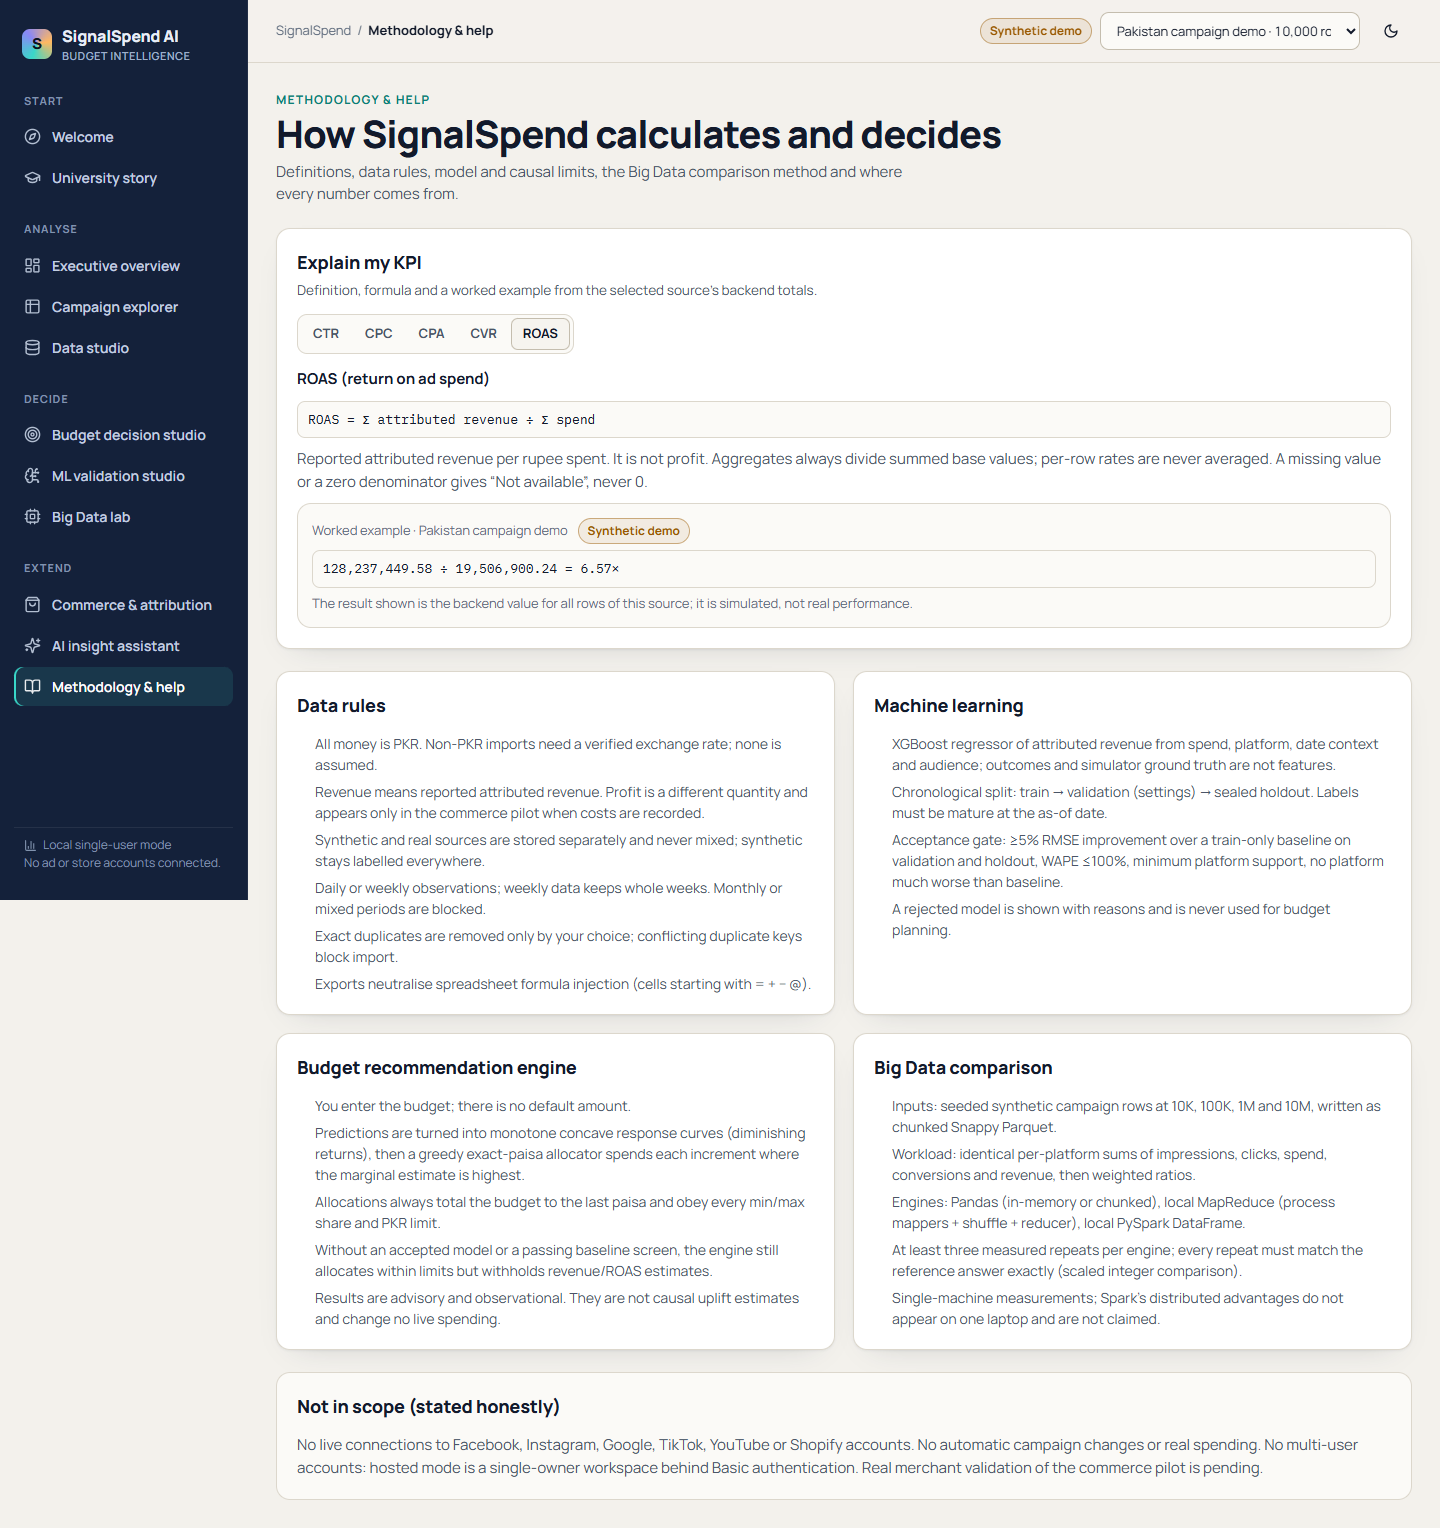
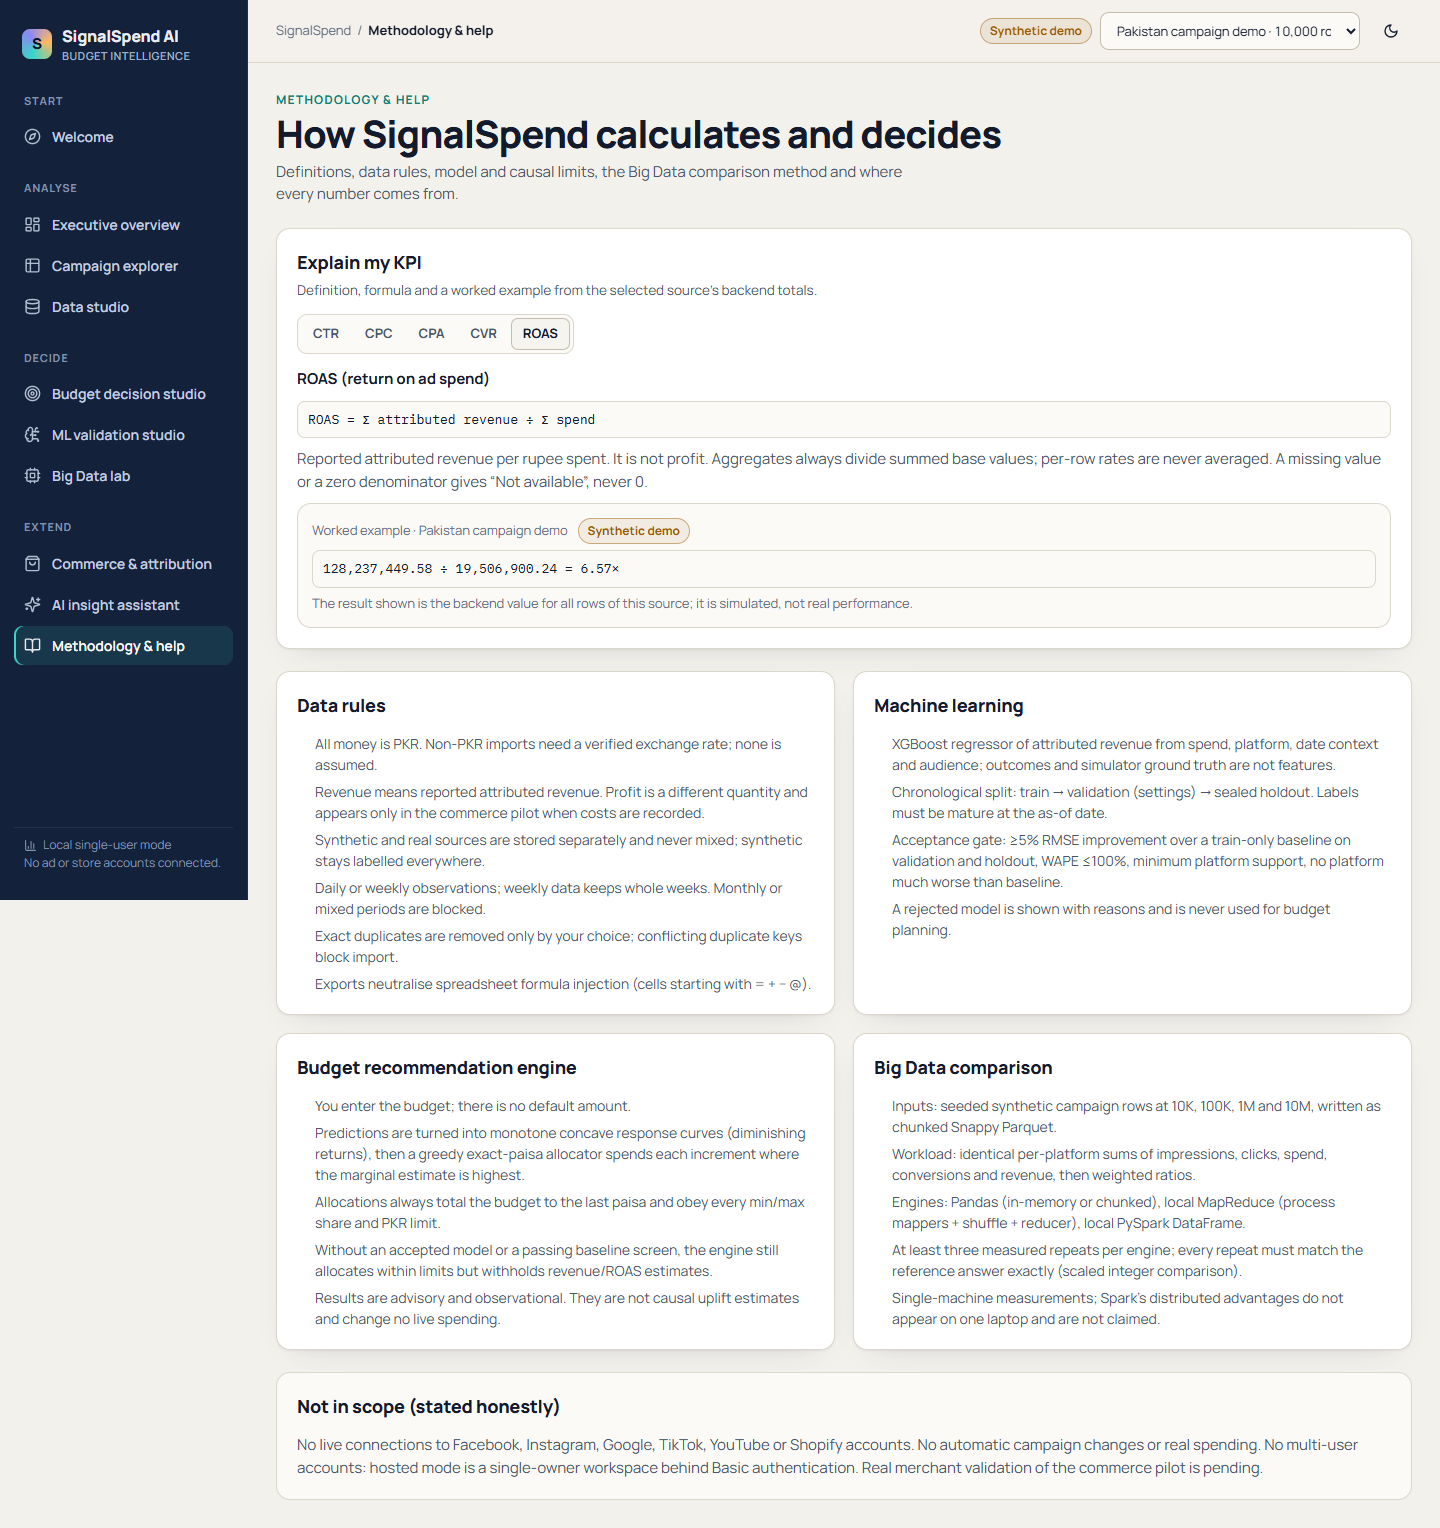
Add test results card and screenshot gallery to README
Card is generated from recorded results (pytest summary, browser journeys,
page QA, Big Data evidence) by scripts/test-results-card.mjs. Removed stale
University story screenshots; refreshed light-theme QA and live AI screenshot.

Changed region(s): [[0.0, 0.0923, 0.1562, 0.4614]]

diff --git a/docs/test-results.html b/docs/test-results.html
@@ -1,0 +1,28 @@
+<!doctype html><html><head><meta charset="utf-8"><style>
+*{box-sizing:border-box}body{margin:0;background:#0b1220;color:#f6f8fc;font:15px/1.45 "Segoe UI",system-ui,sans-serif;padding:32px;width:1200px}
+h1{margin:0 0 4px;font-size:30px;letter-spacing:-.02em}.sub{color:#a7b7ce;margin:0 0 22px}
+.grid{display:grid;grid-template-columns:1fr 1fr;gap:18px}.card{background:#18273e;border:1px solid #2a3a52;border-radius:14px;padding:18px}
+h2{font-size:16px;margin:0 0 12px;color:#39d7c8;text-transform:uppercase;letter-spacing:.08em}
+table{width:100%;border-collapse:collapse;font-variant-numeric:tabular-nums}td,th{padding:7px 8px;border-bottom:1px solid #2a3a52;text-align:left}th{color:#a7b7ce;font-size:12.5px}
+td.r,th.r{text-align:right}.b{display:inline-block;white-space:nowrap;padding:2px 9px;border-radius:99px;font-weight:700;font-size:12.5px}.ok{background:rgba(95,211,154,.14);color:#5fd39a;border:1px solid rgba(95,211,154,.4)}.no{background:rgba(243,125,131,.14);color:#f37d83;border:1px solid rgba(243,125,131,.4)}
+.big{font-size:34px;font-weight:800}.muted{color:#a7b7ce;font-size:13px}.wide{grid-column:1/-1}code{font-family:Consolas,monospace;font-size:12.5px;color:#a7b7ce}
+</style></head><body>
+<h1>SignalSpend AI · Test results</h1>
+<p class="sub">Generated from recorded result files · 2026-11-02 16:23 UTC · live = https://signalspend-ai.vercel.app (no login)</p>
+<div class="grid">
+<div class="card"><h2>Backend (pytest)</h2><div class="big">201 passed</div>
+<p class="muted">9 failed, 201 passed, 1 skipped, 1 warning in 142.42s (0:02:22)</p><p class="muted">Remaining failures are Windows/POSIX-environment specific (file modes, SIGKILL, SQLite temp locks, symlink privilege):</p>
+<code>test_ai.py::test_private_key_lifecycle_and_truthful_status<br>test_benchmarks.py::test_cleanup_kills_orphan_group_after_runner_exits<br>test_commerce.py::test_shopify_order_grain_privacy_and_repeated_totals<br>test_serverless.py::test_cold_invocations_restore_campaigns_and_export<br>test_serverless.py::test_storage_failure_never_returns_success_or_publishes_partial_state<br>test_serverless.py::test_failed_action_does_not_change_saved_workspace<br>test_serverless.py::test_hosted_lab_cannot_start_detached_worker<br>test_serverless.py::test_workspace_size_limit_and_symlinks<br>test_serverless.py::test_hosted_training_finishes_before_response_and_survives_restore</code></div>
+<div class="card"><h2>Browser journeys</h2><table><tr><th>Where</th><th>Suite</th><th class="r">Result</th></tr>
+<tr><td>Local</td><td>Core journeys (Rs 1M plan, limits, model, explorer)</td><td class="r"><span class="b ok">✓ 10/10</span></td></tr><tr><td>Local</td><td>Commerce import + comparison</td><td class="r"><span class="b ok">✓ 8/8</span></td></tr><tr><td>Local</td><td>AI assistant (NVIDIA)</td><td class="r"><span class="b ok">✓ 8/8</span></td></tr><tr><td>Live</td><td>Core journeys (Rs 1M plan, limits, model, explorer)</td><td class="r"><span class="b ok">✓ 10/10</span></td></tr><tr><td>Live</td><td>Commerce import + comparison</td><td class="r"><span class="b ok">✓ 8/8</span></td></tr><tr><td>Live</td><td>AI assistant (NVIDIA)</td><td class="r"><span class="b ok">✓ 8/8</span></td></tr>
+</table></div>
+<div class="card"><h2>Pages × screen sizes</h2><table><tr><th>Run</th><th>Widths</th><th class="r">Clean (200, 0 errors, 0 overflow)</th></tr>
+<tr><td>Local · dark</td><td>320, 375, 430, 768, 1024, 1280, 1440 px</td><td class="r"><span class="b ok">✓ 70/70</span></td></tr><tr><td>Local · light</td><td>320, 375, 768, 1440 px</td><td class="r"><span class="b ok">✓ 40/40</span></td></tr><tr><td>Live · dark</td><td>375, 768, 1440 px</td><td class="r"><span class="b ok">✓ 30/30</span></td></tr>
+</table><p class="muted">10 routes: /  /overview  /campaigns  /data  /budget  /models  /lab  /commerce  /assistant  /methodology</p></div>
+<div class="card"><h2>Big Data lab · median of 3 repeats</h2><table><tr><th>Rows</th><th class="r">Pandas</th><th class="r">MapReduce</th><th class="r">Spark</th><th class="r">Parity</th></tr>
+<tr><td>10,000</td><td class="r">14 ms</td><td class="r">38 ms</td><td class="r">682 ms</td><td class="r"><span class="b ok">✓ all repeats</span></td></tr><tr><td>100,000</td><td class="r">41 ms</td><td class="r">213 ms</td><td class="r">935 ms</td><td class="r"><span class="b ok">✓ all repeats</span></td></tr><tr><td>1,000,000</td><td class="r">344 ms</td><td class="r">2.13 s</td><td class="r">2.06 s</td><td class="r"><span class="b ok">✓ all repeats</span></td></tr><tr><td>10,000,000</td><td class="r">7.47 s</td><td class="r">21.59 s</td><td class="r">9.74 s</td><td class="r"><span class="b ok">✓ all repeats</span></td></tr>
+</table></div>
+<div class="card wide"><h2>Key checks</h2><table>
+<tr><td><span class="b ok">✓ PASS</span></td><td>PKR 1,000,000 plan sums exactly</td><td class="muted">Exact-total check: platform amounts sum to Rs 1,000,000.00 — equal to the requested budget to t</td></tr><tr><td><span class="b ok">✓ PASS</span></td><td>Independent paisa sum of table equals 1,000,000.00</td><td class="muted">Rs 254,376.05 | Rs 222,320.64 | Rs 216,470.73 | Rs 158,378.25 | Rs 148,454.33</td></tr><tr><td><span class="b ok">✓ PASS</span></td><td>Method is disclosed</td><td class="muted">XGBoost + adjusted response curves</td></tr><tr><td><span class="b ok">✓ PASS</span></td><td>Editing inputs hides stale estimates</td><td class="muted"></td></tr><tr><td><span class="b ok">✓ PASS</span></td><td>Google share respects 20% cap</td><td class="muted">18.61%</td></tr><tr><td><span class="b ok">✓ PASS</span></td><td>Constrained plan still sums exactly</td><td class="muted"></td></tr><tr><td><span class="b ok">✓ PASS</span></td><td>Saved model re-evaluation matches stored holdout</td><td class="muted"></td></tr><tr><td><span class="b ok">✓ PASS</span></td><td>Campaign table sorts by ROAS on the server</td><td class="muted">23.72×</td></tr><tr><td><span class="b ok">✓ PASS</span></td><td>Legacy /budget-optimizer redirects to /budget</td><td class="muted"></td></tr><tr><td><span class="b ok">✓ PASS</span></td><td>No uncaught page errors</td><td class="muted"></td></tr><tr><td><span class="b ok">✓ PASS</span></td><td>NVIDIA key configured on the server</td><td class="muted">configured (server environment)</td></tr><tr><td><span class="b ok">✓ PASS</span></td><td>Performance: Explain disabled until approval</td><td class="muted"></td></tr><tr><td><span class="b ok">✓ PASS</span></td><td>Performance: explanation received</td><td class="muted">The report is marked as synthetic, meaning all date and revenue values are generated data rathe</td></tr>
+</table></div>
+</div></body></html>

diff --git a/README.md b/README.md
@@ -13,22 +13,24 @@ SignalSpend AI turns campaign history into weighted KPIs, measures **Pandas vs M
 ## Contents
 1. [Features](#features)
 2. [Screens](#screens)
-3. [How the numbers are calculated](#how-the-numbers-are-calculated)
-4. [Big Data lab results](#big-data-lab-results)
-5. [Machine learning](#machine-learning)
-6. [Budget recommendation engine](#budget-recommendation-engine)
-7. [Commerce & attribution](#commerce--attribution)
-8. [AI insight assistant (NVIDIA)](#ai-insight-assistant-nvidia)
-9. [Architecture & tech stack](#architecture--tech-stack)
-10. [Project structure](#project-structure)
-11. [Run it locally](#run-it-locally)
-12. [Environment variables](#environment-variables)
-13. [Tests & quality checks](#tests--quality-checks)
-14. [Deployment (Vercel)](#deployment-vercel)
-15. [Security & privacy](#security--privacy)
-16. [Limitations](#limitations)
-17. [Troubleshooting](#troubleshooting)
-18. [Documentation index](#documentation-index)
+3. [Test results](#test-results)
+4. [Screenshots](#screenshots)
+5. [How the numbers are calculated](#how-the-numbers-are-calculated)
+6. [Big Data lab results](#big-data-lab-results)
+7. [Machine learning](#machine-learning)
+8. [Budget recommendation engine](#budget-recommendation-engine)
+9. [Commerce & attribution](#commerce--attribution)
+10. [AI insight assistant (NVIDIA)](#ai-insight-assistant-nvidia)
+11. [Architecture & tech stack](#architecture--tech-stack)
+12. [Project structure](#project-structure)
+13. [Run it locally](#run-it-locally)
+14. [Environment variables](#environment-variables)
+15. [Tests & quality checks](#tests--quality-checks)
+16. [Deployment (Vercel)](#deployment-vercel)
+17. [Security & privacy](#security--privacy)
+18. [Limitations](#limitations)
+19. [Troubleshooting](#troubleshooting)
+20. [Documentation index](#documentation-index)
 
 ---
 
@@ -58,6 +60,31 @@ SignalSpend AI turns campaign history into weighted KPIs, measures **Pandas vs M
 | `/commerce` | Commerce & attribution |
 | `/assistant` | AI insight assistant |
 | `/methodology` | Formulas, data rules, ML, budget engine, Big Data method, scope |
+
+## Test results
+Every number below comes from the recorded result files in [`docs/`](docs/) (pytest output, browser-journey JSON, page-QA JSON and Big Data evidence). The card is regenerated with `node scripts/test-results-card.mjs`.
+
+![Test results](docs/screenshots/test-results.png)
+
+| Suite | Local | Live (no login) |
+|---|---|---|
+| Backend pytest | 201 passed (9 Windows-only environment failures, 1 skipped) | n/a |
+| Core journeys: Rs 1M exact plan, 20% cap, stale estimates, model re-evaluation, explorer, redirects | 10/10 | 10/10 |
+| Commerce import + comparison | 8/8 | 8/8 |
+| AI assistant (real NVIDIA explanations, approval gate) | 8/8 | 8/8 |
+| Pages × screen sizes (HTTP 200, 0 console errors, 0 overflow) | 70/70 dark, 40/40 light | 30/30 |
+| Big Data lab: 4 scales × 3 engines × 3 repeats parity | all correct | n/a (runs locally) |
+
+## Screenshots
+| | |
+|---|---|
+| **Welcome** ![Welcome](docs/screenshots/cloud-welcome-1440.png) | **Executive overview** ![Overview](docs/screenshots/cloud-overview-1440.png) |
+| **Budget: Rs 1,000,000 exact plan** ![Budget plan](docs/screenshots/cloud-flow-budget-1m-1440.png) | **ML validation studio** ![Models](docs/screenshots/cloud-models-1440.png) |
+| **Big Data lab (local, 10K → 10M)** ![Lab](docs/screenshots/lab-1440.png) | **Campaign explorer** ![Campaigns](docs/screenshots/cloud-campaigns-1440.png) |
+| **Commerce & attribution** ![Commerce](docs/screenshots/cloud-flow-commerce-import-1440.png) | **AI insight assistant (NVIDIA)** ![Assistant](docs/screenshots/cloud-assistant-explain-1440.png) |
+| **Data studio** ![Data](docs/screenshots/cloud-data-1440.png) | **Light theme** ![Light theme](docs/screenshots/overview-1440-light.png) |
+
+**Mobile (375 px):** [Overview](docs/screenshots/cloud-overview-375.png) · [Budget](docs/screenshots/cloud-budget-375.png) · [Lab](docs/screenshots/cloud-lab-375.png) · [Commerce](docs/screenshots/cloud-commerce-375.png) · [Assistant](docs/screenshots/cloud-assistant-375.png)
 
 ## How the numbers are calculated
 All aggregates are computed on the server from **summed base values**. Per-row rates are never averaged.
